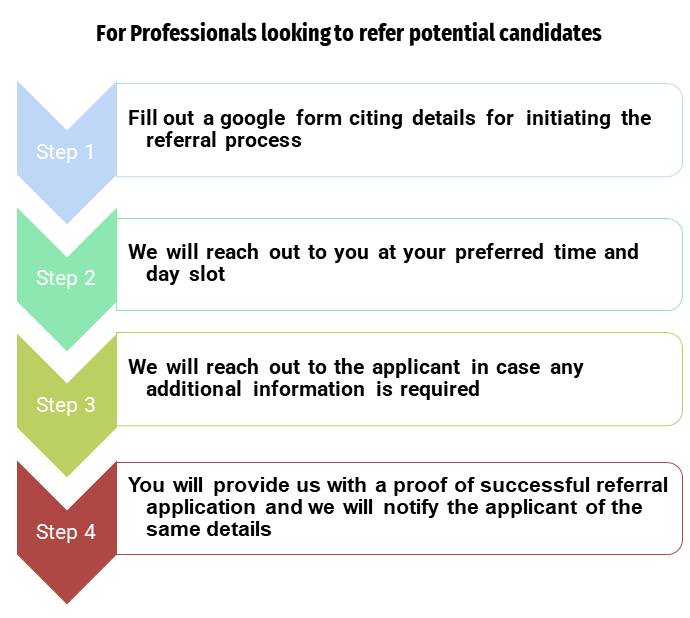
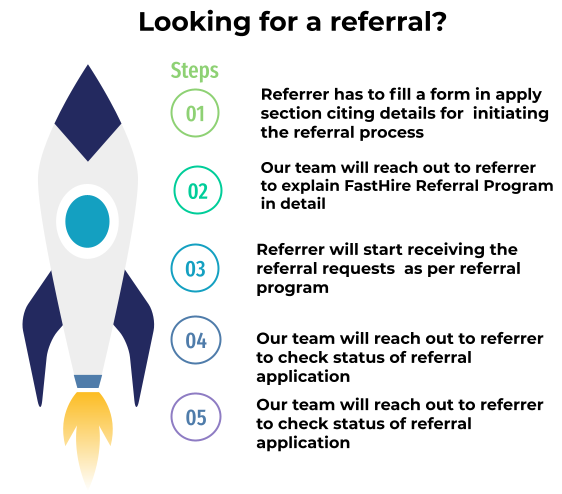
update images and add faqs

Changed region(s): [[0.0, 0.1215, 0.9982, 0.9717], [0.121, 0.0, 0.8772, 0.0911], [0.3327, 0.2733, 0.363, 0.3036]]

diff --git a/index.html b/index.html
@@ -38,16 +38,13 @@
                 <div class="animated-icon2"><span></span><span></span><span></span><span></span></div>
             </button>
 
-            <div class="collapse navbar-collapse" id="navbarSupportedContent" style="background-color: #f2ffe6">
-                <ul class="navbar-nav nav ms-auto">
+            <div class="collapse navbar-collapse" id="navbarSupportedContent" style="background-color: #f2ffe6; text-align: end;">
+                <ul class="navbar-nav nav ms-auto" onclick="toggleNav()">
                     <li class="nav-item" style="background-color: #f2ffe6">
                         <a class="nav-link " href="#about"><strong>About</strong> </a>
                     </li>
                     <li class="nav-item" style="background-color: #f2ffe6">
                         <a class="nav-link " href="#working"><strong>How It Works</strong></a>
-                    </li>
-                    <li class="nav-item" style="background-color: #f2ffe6">
-                        <a class="nav-link " href="#referral"><strong>Process</strong></a>
                     </li>
                     <!-- <li class="nav-item" style="background-color: #f2ffe6">
                         <a class="nav-link " href="#">Community (Coming Soon)</a>
@@ -220,36 +217,19 @@
                 <p>Fast Hire follows these steps for their referral program</p>
             </div>
             <div style="text-align: center;">
-                <img id="proSteps" alt="" style="width:1000px"/>
+                <img id="candidateSteps" alt="" style="width:1000px"/>
                 <a href="https://docs.google.com/forms/d/e/1FAIpQLSfJe0ttksUGNng9lyCv17FE7K6hNvQUE8wRfHJjY0wE7xuhSA/viewform" class="btn btn-primary" style="background-color:#1a6600; color:white;margin: 40px auto;display: block; width: 180px; padding: 17px;" target="_blank">Apply Now</a>
             </div>
             <br>
             <hr>
                 <div style="text-align: center;">
-                    <img id="refreeSteps" alt="" style="width:1000px">
+                    <img id="referrerSteps" alt="" style="width:1000px">
                     <a href="https://forms.gle/iYyczSj1cXPubqeU9" style="background-color:#1a6600; color:white;margin: 40px auto;display: block; width: 180px; padding: 17px;" class="btn btn-primary" target="_blank">Apply Now</a>
                 </div>
 
             </div>
         </div>
-
-
-        <!-- HOW IT WORKS ENDS  -->
-
-          <!-- REFERRALS -->
-
-          <div class="section-6" id="referral">
-            <div class="container-fluid feature-main-heading py-3 my-3">
-                <h3><strong>Get Started with Us </strong></h3>
-                <p>To Find Referrals From Professionals Working At Some Of The Best Companies In The World</p>
-            </div>
-        </div>
-
-        <!-- REFERRALS ENDS  -->
-
-
-
-
+        <hr/>
        <!-- FAQ  -->
        <div class="container my-5 working-container" id="faq">
         <div class="container-fluid feature-main-heading py-3 my-3">
@@ -257,11 +237,33 @@
             
         </div>
         <div>
-        	<ul>
-        		<li><strong> Is this Program for me ? </strong></li>
-        		<p> This program is for everyone who wants to get in a company via referrals. </p>
-        		<li> write ques </li>
-        	</ul>
+        	<details>
+                <summary>What is the FastHire Referral Program?</summary>
+                <p>The Fasthire program helps candidates find a referral in their target company in minimum time duration. You need to fill a form in the apply section and wait for further communication from our team. In the form, you need to fill in basic details,resume and job description for target role.</p>
+            </details>
+            <details>
+                <summary>Is there any fee for the referral program?</summary>
+                <p>The FastHire referral program is completely free.</p>
+            </details>
+            <details>
+                <summary>How many referral applications can I apply for?</summary>
+                <p>You can apply for a referral in one company only once in 6 Months. Our platform will automatically filter out duplicate applications.</p>
+            </details>
+            <details>
+                <summary>Will I get shortlisted for an interview after applying?</summary>
+                <p>No,a referral application is not a confirmation for an interview call. Only profiles relevant to the job opening will be shared further. But, the profiles shared by us have a good probability of receiving an interview call from a recruiter.
+                </p>
+            </details>
+            <details>
+                <summary>Why should I refer candidates from the FastHire platform?</summary>
+                <p>The job-hunting process is emotional and comes with plenty of ups                                                     and down.We are building a community which will help candidates to go through job hunt phase without hassle and to connect with professionals in their target companies.</p>
+            </details>
+            <details>
+                <summary>For  which roles  can I find referrals through the FastHire Referral Program?
+                </summary>
+                <p>Currently ,We are focussed on Technology  and Data Science related roles.We will soon be expanding our help in other  job roles.
+                </p>
+            </details>
         </div>
     <!-- FAQ ENDS  -->
 
@@ -271,7 +273,7 @@
         <h3><strong>Contact Us</strong></h3>        
     </div>
     <div class='contactUsText'>
-        For any queries feel free to drop us a note at   <span class="emailId">fastreferral@gmail.com</span>
+        For any queries feel free to drop your concerns at <span class="emailId">fastreferral@gmail.com</span>
     </div>
 
     </div>

diff --git a/css/style.css b/css/style.css
@@ -684,11 +684,11 @@ footer {
 .contactUsText{
     font-size: 20px;
 }
-#proSteps{
-    content: url('../media/referral_profs.PNG');
+#referrerSteps{
+    content: url('../media/referral_referrer.png');
 }
 
-#refreeSteps{
+#candidateSteps{
     content: url('../media/referral_candidate.PNG');
 }
 
@@ -696,14 +696,23 @@ footer {
     .myimgContainer{
         text-align: left;
     }
-    #proSteps{
+    #referrerSteps{
         width: 100% !important;
-        content: url('../media/referral_profs_mobile.PNG');
+        content: url('../media/referral_referrer_mobile.PNG');
     }
     
-    #refreeSteps{
+    #candidateSteps{
         width: 100%!important;
         content: url('../media/referal_candidate_mobile.png');
     }
 
+}
+
+details{
+    margin: 10px 0;
+}
+
+details > p {
+    margin-top: 10px;
+    color: #A9A9A9;
 }
